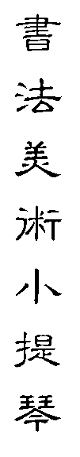
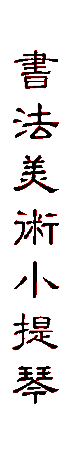
加入了鼠标相应，重新制作了对联图片。

Changed region(s): [[0.15, 0.0306, 0.775, 0.9497], [0.55, 0.5821, 0.75, 0.674], [0.175, 0.5821, 0.375, 0.674]]

diff --git a/index.html b/index.html
@@ -20,6 +20,9 @@
 			<img src="images/main/side2LeftT.png" width="80px" height="457px"
 				alt="书法美术小提琴" usemap="#side2leftMap">
 			<map name="side2leftMap">
+				<area id="CalligraphyStudy" coords="0, 0, 79, 145" target="_blank">
+				<area id="DrawingStudy" coords="0, 146, 79, 250" target="_blank">
+				<area id="ViolinStudy" coords="0, 251, 79, 456" target="_blank">
 			</map>
 		</div>
 		<div id="midcenter"></div>
@@ -27,12 +30,35 @@
 			<img src="images/main/side2RightT.png" width="80px" height="457px"
 				alt="数学外语计算机" usemap="#side2rightMap">
 			<map name="side2rightMap">
-				<area id="MathStudy" coords="0, 0, 79, 125" target="_blank">
+				<area id="MathStudy" coords="0, 0, 79, 145" target="_blank">
+				<area id="LangStudy" coords="0, 146, 79, 250" target="_blank">
+				<area id="CompStudy" coords="0, 251, 79, 456" target="_blank">
 			</map>
 		</div>
 		<div id="midside1Right" class="midside1"></div>
 	</div>
 
+	<div id="CalligraphyStudyNav" class="hiddenInfo">
+		<ul>
+			<li>
+				<h3>
+					<a href="pages/mathstudy/index.html" target="_blank">书法历史</a>
+				</h3>
+			</li>
+			<li>
+				<h3>著名书法家</h3>
+			</li>
+			<li>
+				<h3>书法入门</h3>
+			</li>
+			<li>
+				<h3>字帖欣赏</h3>
+			</li>
+			<li>
+				<h3>作品展示</h3>
+			</li>
+		</ul>
+	</div>
 	<div id="MathStudyNav" class="hiddenInfo">
 		<ul>
 			<li>

diff --git a/javascripts/main.js b/javascripts/main.js
@@ -2,9 +2,17 @@ $(document).ready(function() {
 	$('#midside2Right > * > area').mouseover(function(e) {
 		showMidSide1RightInfo(e);
 	});
+	$('#midside2Left > * > area').mouseover(function(e) {
+		showMidSide1LeftInfo(e);
+	});
 });
 
 function showMidSide1RightInfo(e) {
 	var infoID = e.target.id + 'Nav';
 	$('#midside1Right').html($('#' + infoID).html());
+}
+
+function showMidSide1LeftInfo(e) {
+	var infoID = e.target.id + 'Nav';
+	$('#midside1Left').html($('#' + infoID).html());
 }
